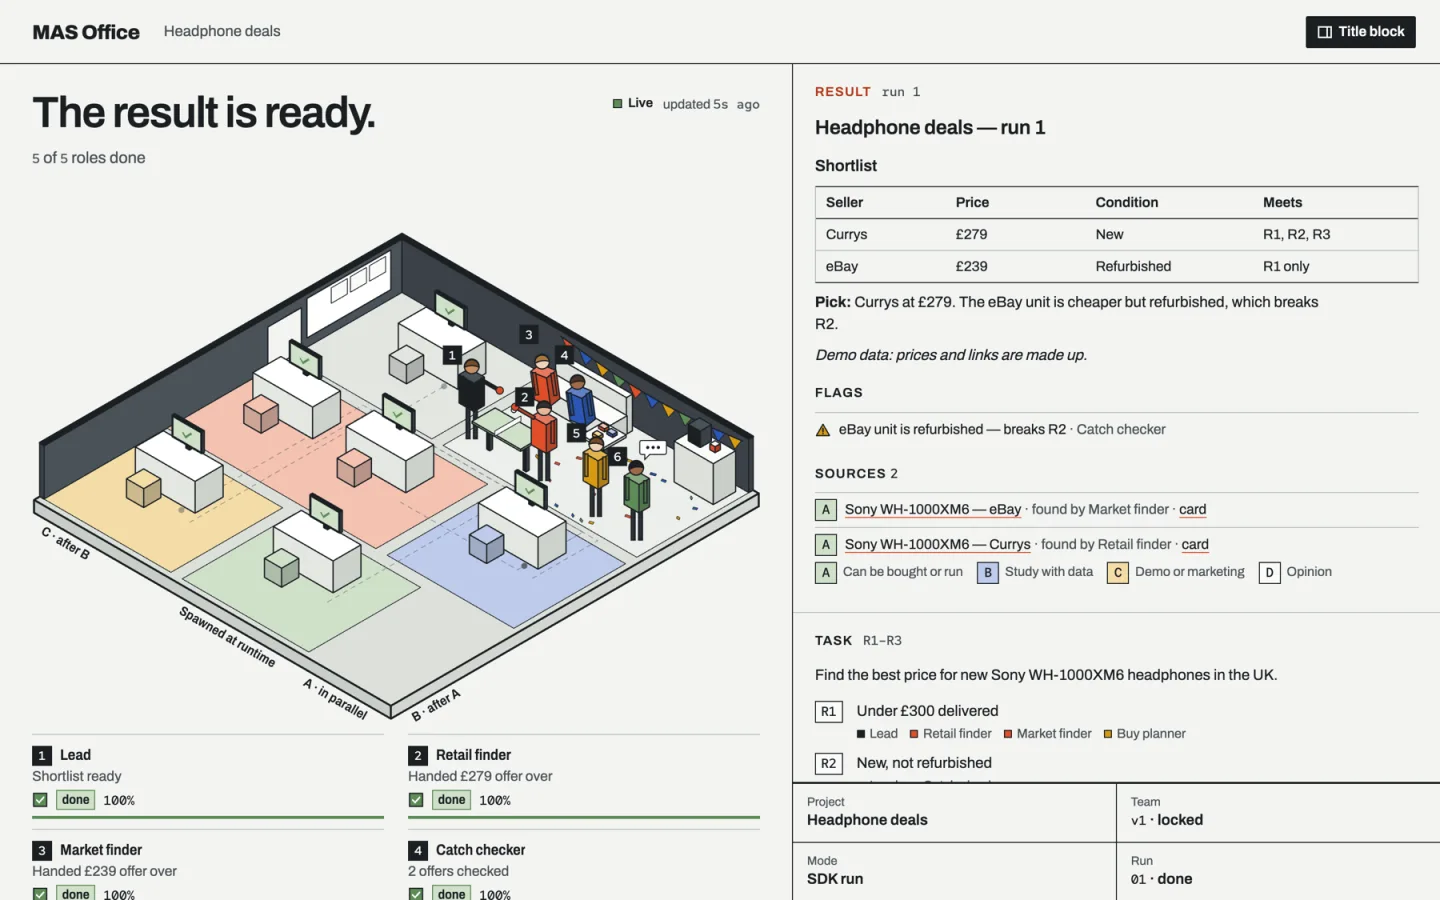
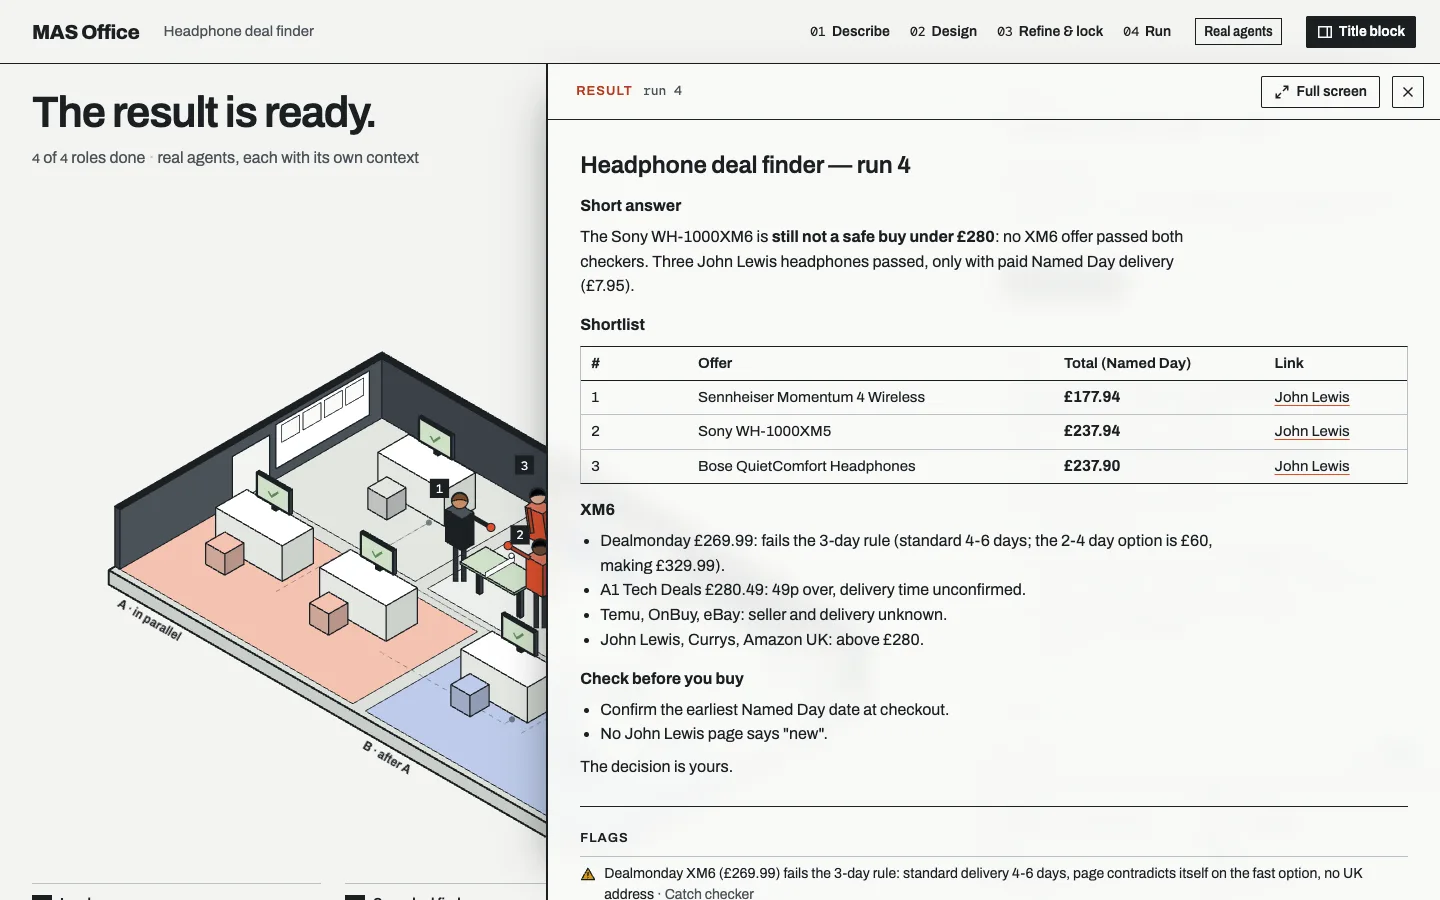
Fix the result drawer on live runs; refresh README and site; v0.2.2
The drawer did not slide out when a run finished live. The Lead and the
SDK write the result just before marking the run done, and v0.2.0 took
that in-progress result for an old one. Only a result already present
at the first look now counts as old. The drawer slides out 2.5 s after
the run finishes so the wrap-up shows first, and a single-round result
no longer shows a round label.

README (both languages) and the website describe the result drawer,
follow-up rounds and the new roadmap, with a new demo GIF and result
screenshot. The development log records the fix.

diff --git a/site/index.html b/site/index.html
@@ -172,7 +172,7 @@ html[data-radius="sharp"] { --r-sm: 2px; --r-md: 0px; --r-lg: 0px; --r-btn: 2px;
   /* no-code: the panel's result view, cut by the frame's right and bottom edges */
   #nocode .frame { --ratio: 80%; background: var(--p-bg); }
   #nocode .shot { position: absolute; inset: 0; width: 100%; height: 100%; object-fit: contain; object-position: center; }
-  #nocode pre { margin: 0; padding: var(--s-3) var(--s-4); background: var(--p-surface); border: 1px solid var(--line); font: 400 15px/1.5 var(--font-mono); white-space: pre-wrap; }
+  #nocode pre { margin-bottom: 0; padding: var(--s-3) var(--s-4); background: var(--p-surface); border: 1px solid var(--line); font: 400 15px/1.5 var(--font-mono); white-space: pre-wrap; }
   @media (max-width: 639px) {
     #protocol { --hm: 2; }
     #how, #code, #integrations, #contribute { --hm: 2; }
@@ -273,7 +273,7 @@ html[data-radius="sharp"] { --r-sm: 2px; --r-md: 0px; --r-lg: 0px; --r-btn: 2px;
       <div class="grid head">
         <h2 class="span-5" id="examples-h">Three example runs, live in the panel</h2>
         <div class="span-6 start-7">
-          <p class="t-lead">Each example is a real workspace folder. Click a desk or a role to follow its thread; the result sits beside the drawing with its sources.</p>
+          <p class="t-lead">Each example is a real workspace folder. Click a desk or a role to follow its thread; open the result to read it in a drawer over the drawing, with its sources.</p>
           <div class="tabs" role="tablist" aria-label="Example runs">
             <button class="tab" role="tab" type="button" id="tab-headphones" aria-controls="ex-headphones" aria-selected="true">Compare headphone deals</button>
             <button class="tab" role="tab" type="button" id="tab-lisbon" aria-controls="ex-lisbon" aria-selected="false">Plan a Lisbon weekend</button>
@@ -418,7 +418,7 @@ html[data-radius="sharp"] { --r-sm: 2px; --r-md: 0px; --r-lg: 0px; --r-btn: 2px;
 <span class="ui-code__ln" data-n="7">    finder.<span class="f">source</span>(id="currys", title="Sony XM6 — Currys", url="https://www.currys.co.uk/", evidence="A")</span>
 <span class="ui-code__ln" data-n="8" data-note="The handoff path runs from the finder's desk to the lead.">    finder.<span class="f">handoff</span>("lead")</span>
 <span class="ui-code__ln" data-n="9">    finder.<span class="f">done</span>()</span>
-<span class="ui-code__ln" data-n="10" data-note="The result opens beside the office, its source linked.">    run.<span class="f">result</span>(markdown="## Shortlist\n- Currys — £279")</span>
+<span class="ui-code__ln" data-n="10" data-note="The result slides out over the office, its source linked.">    run.<span class="f">result</span>(markdown="## Shortlist\n- Currys — £279")</span>
 <span class="ui-code__ln" data-n="11">    run.<span class="f">finish</span>()</span></code></pre>
               <div class="ui-code__hint" data-code-hint><span class="ui-dot"></span><span data-code-text>The finder's desk reads “Searching Currys” at 30%.</span></div>
             </div>
@@ -433,7 +433,7 @@ html[data-radius="sharp"] { --r-sm: 2px; --r-md: 0px; --r-lg: 0px; --r-btn: 2px;
 <span class="ui-code__ln" data-n="5"><span class="k">const</span> finder = run.<span class="f">agent</span>('finder', { name: 'Retail finder', emoji: '🔎' });</span>
 <span class="ui-code__ln is-mark" data-n="6">finder.<span class="f">working</span>('Searching Currys', { progress: <span class="n">30</span> });</span>
 <span class="ui-code__ln" data-n="7">finder.<span class="f">done</span>();</span>
-<span class="ui-code__ln" data-n="8" data-note="The result opens beside the office.">run.<span class="f">result</span>({ markdown: '## Shortlist\n- Currys — £279' });</span>
+<span class="ui-code__ln" data-n="8" data-note="The result slides out over the office.">run.<span class="f">result</span>({ markdown: '## Shortlist\n- Currys — £279' });</span>
 <span class="ui-code__ln" data-n="9">run.<span class="f">finish</span>();</span>
 <span class="ui-code__ln" data-n="10"><span class="k">await</span> office.<span class="f">close</span>();</span></code></pre>
               <div class="ui-code__hint" data-code-hint><span class="ui-dot"></span><span data-code-text>The finder's desk reads “Searching Currys” at 30%.</span></div>
@@ -450,11 +450,12 @@ html[data-radius="sharp"] { --r-sm: 2px; --r-md: 0px; --r-lg: 0px; --r-btn: 2px;
         <div class="span-5 stack-5">
           <h2 id="nocode-h">No-code mode for AI coding assistants</h2>
           <p class="t-lead">Give <code>AGENTS.md</code> to Claude Code, Codex, Gemini CLI or Antigravity. The assistant designs a team with you, locks it, and runs each role as its own subagent while the office shows every step.</p>
+          <p>Ask follow-up questions about the result: the Lead sends only the roles a question needs back to work, and the answer joins the result as a new round. In Claude Code the team also shows in the status line, and roles get a sandboxed browser for pages that block simple fetches.</p>
           <pre>npx mas-office init --kit my-team</pre>
           <a class="link" href="https://github.com/weixijia/awesome-mas">See awesome-mas, the classroom edition</a>
         </div>
         <div class="frame frame--split span-6 start-7">
-          <img class="shot" src="assets/img/result.webp" alt="The office panel after a run: the team at the party table and the result beside it, a shortlist table with its flags and sources" width="1440" height="900" loading="lazy" decoding="async" data-source="client" data-subject="the MAS Office panel with a result">
+          <img class="shot" src="assets/img/result.webp" alt="The office panel after a run: the result drawer open over the office, with a short answer and a shortlist table" width="1440" height="900" loading="lazy" decoding="async" data-source="client" data-subject="the MAS Office panel with a result">
         </div>
       </div>
     </div>
@@ -507,7 +508,8 @@ html[data-radius="sharp"] { --r-sm: 2px; --r-md: 0px; --r-lg: 0px; --r-btn: 2px;
           <div class="faq__item"><h3>Is MAS Office a tracing platform?</h3><p>No. It is the view you put on the big screen. Use it beside your tracer: every event can carry trace ids.</p></div>
           <div class="faq__item"><h3>Do I need an account, a server or a database?</h3><p>No. A project is a folder of files, and the panel is plain HTML that even opens from file://.</p></div>
           <div class="faq__item"><h3>Are the framework integrations stable?</h3><p>Not yet. The four integrations are experimental; the AGENTS.md kit for coding assistants is stable.</p></div>
-          <div class="faq__item"><h3>Is the Python package on PyPI?</h3><p>Not yet. Install it from GitHub with pip for now; the first tagged release to npm and PyPI is on the roadmap.</p></div>
+          <div class="faq__item"><h3>Is the Python package on PyPI?</h3><p>Not yet. The npm package is released; install the Python SDK from GitHub with pip for now. A PyPI release is on the roadmap.</p></div>
+          <div class="faq__item"><h3>What comes next?</h3><p>Driving the team, not only showing it: each role runs in an official coding agent you are already signed in to, and MAS Office plans, schedules and checks the team. See the <a href="https://github.com/weixijia/mas-office/blob/main/ROADMAP.md">roadmap</a>.</p></div>
           <div class="faq__item"><h3>Can I replay a run?</h3><p>Yes. Each project keeps an append-only events.jsonl, and <code>mas-office reduce</code> rebuilds every snapshot from it.</p></div>
         </div>
       </div>

diff --git a/panel/app.js b/panel/app.js
@@ -39,17 +39,19 @@
   // The icon for a status that carries a flag (a found problem, a question for you, a failure), else ''.
   const flagIcon = (st) => { const f = M.flagInfo(st); return f ? ICON[f.icon] : ''; };
   const narrow = () => window.innerWidth <= 1100;
+  const DRAWER_DELAY = 2500; // ms between a result arriving and the drawer sliding out
   const S = {
     demo: params.get('demo') === '1', data: {}, statuses: M.dict(), history: M.dict(), feed: [], timing: M.dict(), run: { start: 0, end: 0 },
     sigs: {}, lastChange: 0, loadedOnce: false, warnings: {}, selected: null, phase: undefined,
-    sidebar: params.get('sidebar') ? params.get('sidebar') === 'open' : !narrow(), userSidebar: !!params.get('sidebar'), autoRun: undefined, drawer: false, drawerFull: false,
+    sidebar: params.get('sidebar') ? params.get('sidebar') === 'open' : !narrow(), userSidebar: !!params.get('sidebar'), autoRun: undefined, seenKeys: new Set(), drawer: false, drawerFull: false,
     home: null, current: undefined, index: false
   };
   // A different MAS is now followed: everything per project starts over, as if the page had just opened.
   function resetProject() {
     Object.assign(S, { data: {}, statuses: M.dict(), history: M.dict(), feed: [], timing: M.dict(), run: { start: 0, end: 0 }, sigs: {}, selected: null,
-      phase: undefined, warnings: {}, loadedOnce: false, autoRun: undefined });
+      phase: undefined, warnings: {}, loadedOnce: false, autoRun: undefined, seenKeys: new Set() });
     document.body.classList.remove('isolate');
+    clearTimeout(S.drawerTimer);
     setDrawer(false);
     office.reset();
   }
@@ -434,8 +436,8 @@
   function roundLabel(x) { return x.round === 1 && !x.question ? 'Result' : 'Follow-up'; }
   function drawerHtml(ri) {
     const r = ri.r, s = struct(), many = ri.rounds.length > 1;
-    const art = (x) => '<article class="dr-round" id="dr-round-' + x.round + '" data-round="' + x.round + '">' +
-      '<p class="dr-k">' + num('Round ' + String(x.round).padStart(2, '0')) + '<span>' + roundLabel(x) + '</span>' + (x.latest && many ? '<span class="dr-latest">Latest</span>' : '') + '</p>' +
+    const art = (x) => '<article class="dr-round" id="dr-round-' + x.round + '" data-round="' + x.round + '">' + (!many ? '' :
+      '<p class="dr-k">' + num('Round ' + String(x.round).padStart(2, '0')) + '<span>' + roundLabel(x) + '</span>' + (x.latest ? '<span class="dr-latest">Latest</span>' : '') + '</p>') +
       (x.question ? '<p class="dr-q"><span class="quiet">You asked</span>' + esc(x.question) + '</p>' : '') +
       (x.title && (x.latest || x.title !== r.title) ? '<p class="res-title">' + esc(x.title) + '</p>' : '') +
       '<div class="md">' + md(x.markdown) + '</div></article>';
@@ -552,21 +554,33 @@
     renderOffice();
     if (S.index) { renderSidebar(); return; }
     const ri = resultInfo();
+    // A result file already there at the first look, before its run is done, is an old one: never pop it up later.
+    // (A new result is written a moment before its run is marked done, so "present but not ready" alone proves nothing.)
+    if (S.autoRun === undefined && S.loadedOnce && !ri && data().result) S.seenKeys.add(resultKeys(data().result).key);
     if (ri && ri.key !== S.autoRun) { // a new result or follow-up round: once per key
       // it arrived while the page was open: the drawer slides out over the office (the drawing keeps its size);
       // a result that was already there on opening only gets its card in the title block
       // the replayed demo (?demo=1, e.g. the website) keeps its wrap party in view: card only
-      const due = !S.demo && M.drawerDue(S.autoRun, ri.key);
-      S.autoRun = ri.key;
+      const due = !S.demo && M.drawerDue(S.autoRun, ri.key) && !S.seenKeys.has(ri.key);
+      S.autoRun = ri.key; S.seenKeys.add(ri.key);
       if (due) {
-        if (S.selected) select(null);
-        if (S.drawer) showLatestRound(); else setDrawer(true); // already open: jump to the new round
+        if (S.drawer) showLatestRound(); // already open: jump to the new round
+        else { // let the team's wrap-up show for a moment, then slide out (unless something changed meanwhile)
+          const key = ri.key;
+          clearTimeout(S.drawerTimer);
+          S.drawerTimer = setTimeout(() => {
+            const now = resultInfo();
+            if (!now || now.key !== key || S.index || S.drawer) return;
+            if (S.selected) select(null);
+            setDrawer(true);
+          }, DRAWER_DELAY);
+        }
       } else if (!S.sidebar) $('#sb-toggle').classList.add('news');
       const c = $('#cells'); if (c && !S.selected) c.scrollTop = 0;
     }
-    // looked and saw no ready result: the next one that arrives is new. A stale result file from the previous
-    // run or round keeps its key, so it never pops up again as if it were new (e.g. a run that fails without one).
-    if (!ri && S.loadedOnce) S.autoRun = data().result ? resultKeys(data().result).key : null;
+    // Looked and saw no ready result: the next one that arrives is new, unless its key was seen before
+    // (a run that fails without writing a new result leaves the previous one in place).
+    if (!ri && S.loadedOnce) S.autoRun = null;
     renderSidebar();
   }
 

diff --git a/packages/python/src/mas_office/__init__.py b/packages/python/src/mas_office/__init__.py
@@ -7,7 +7,7 @@ from .files import write_snapshots
 from .office import Agent, Office, Project, Run, ToolCall, slugify
 from .reducer import SPEC_VERSION, STATES, Reducer, reduce, validate_event
 
-__version__ = "0.2.1"
+__version__ = "0.2.2"
 
 __all__ = [
     "Agent",

diff --git a/README.md b/README.md
@@ -27,7 +27,7 @@ OpenAI Agents SDK · LangGraph · Claude Agent SDK · Claude Code · your own Py
 
 Multi-agent systems are hard to *see*. Logs scroll past, traces nest ten levels deep, and nobody outside the engineering team can tell which agent is stuck, who handed what to whom, or what the checker just caught.
 
-**MAS Office gives every agent a desk.** When an agent works, uses a tool, hands over, raises a flag or fails, the drawing changes in real time. When the run is done, the result opens beside it — with every claim linked to its source. Your framework still runs the agents; MAS Office is the window into the room.
+**MAS Office gives every agent a desk.** When an agent works, uses a tool, hands over, raises a flag or fails, the drawing changes in real time. When the run is done, the team celebrates and the result slides out over the office, every claim linked to its source. Your framework still runs the agents; MAS Office is the window into the room.
 
 ```bash
 npx mas-office demo        # 30 seconds, no API key, nothing to set up
@@ -42,7 +42,7 @@ npx mas-office demo        # 30 seconds, no API key, nothing to set up
 | 🪶 **Zero dependencies** | The npm and Python packages use only the standard library. No account, no database, no cloud. The panel is plain HTML and even opens from `file://`. |
 | 📜 **An open, versioned protocol** | 18 event types mapped to [AG-UI](https://docs.ag-ui.com), [OpenTelemetry GenAI](https://opentelemetry.io/docs/specs/semconv/gen-ai/) and [A2A](https://a2a-protocol.org). A deterministic reducer, JSON Schemas, and conformance cases that both reference SDKs must pass. |
 | ⏪ **Runs you can replay** | Each project is an append-only `events.jsonl`. Replay it, diff it, commit it, attach it to a bug report. |
-| 🤖 **No-code mode** | Give `AGENTS.md` to Claude Code, Codex, Gemini CLI or Antigravity: the assistant designs a team with you and runs each role as a real subagent while the office shows it. |
+| 🤖 **No-code mode** | Give `AGENTS.md` to Claude Code, Codex, Gemini CLI or Antigravity: the assistant designs a team with you and runs each role as a real subagent while the office shows it. Ask follow-up questions and the Lead sends only the roles it needs back to work. |
 
 ## 🚀 Quick start
 
@@ -178,7 +178,7 @@ That's the whole contract: [`spec/README.md`](spec/README.md). Validate with `np
 npx mas-office init --kit my-team
 ```
 
-Open `my-team` in Claude Code, Codex, Gemini CLI or Antigravity and say *"Read SETUP.md and follow it."* The assistant interviews you about the task, proposes a team (who does what, what runs in parallel, who checks whom), lets you reshape it in plain words, locks it, and runs each role as a separate subagent with its own context — while the office shows every step. This is the engine behind the classroom edition, [**awesome-mas**](https://github.com/weixijia/awesome-mas).
+Open `my-team` in Claude Code, Codex, Gemini CLI or Antigravity and say *"Read SETUP.md and follow it."* The assistant interviews you about the task, proposes a team (who does what, what runs in parallel, who checks whom), lets you reshape it in plain words, locks it, and runs each role as a separate subagent with its own context — while the office shows every step. Then ask follow-up questions about the result: the Lead decides which roles a question needs, sends only those back to work (fresh agents that build on their earlier work), and adds the answer as a new round. This is the engine behind the classroom edition, [**awesome-mas**](https://github.com/weixijia/awesome-mas).
 
 In Claude Code, choose **"Yes, I trust this folder"** when you first open it: only a trusted folder applies the kit's settings. They give you:
 - **The team in your terminal**: the status line shows who is working, who is done and what was flagged, with a link to the office.
@@ -234,10 +234,14 @@ MAS Office is not a tracing platform — it's the view you put on the big screen
 
 ## 🗺 Roadmap
 
+Next, MAS Office learns to **drive** the team, not only show it: a research team you design, can watch, and that checks its own work, running on the AI subscriptions you already have. Each role runs in an official coding agent you are already signed in to (`claude -p`, `codex exec`, …); MAS Office does the team part.
+
 - [x] Protocol 0.1, JS + Python SDKs, CLI with live server, panel, 4 integrations, no-code kit
-- [ ] CrewAI, AG-UI and OpenTelemetry ingest — one adapter each for whole ecosystems
-- [ ] Graph layout for `graph` topologies, observed vs declared handoff edges
-- [ ] Replay scrubber, per-agent token and cost, `export --otlp`
+- [x] 0.2: result drawer, follow-up rounds, a real browser for roles, the team in Claude Code's status line
+- [ ] M0: an evaluation of one agent vs a MAS team on research tasks; role backends for `claude -p` and `codex exec`; chat and office in one terminal screen
+- [ ] M1: `mas run` — the team runs itself, with per-role tools and permissions, checker rework and resume
+- [ ] M2–M4: any coding agent as the Lead (MCP), one-window terminal and desktop apps
+- [ ] Any time: CrewAI, AG-UI and OpenTelemetry ingest; replay scrubber; PyPI release
 
 Full list: [ROADMAP.md](ROADMAP.md). Have an idea? [Start a discussion](https://github.com/weixijia/mas-office/discussions).
 
@@ -273,7 +277,7 @@ If you use MAS Office in research or teaching, please cite it:
   title   = {{MAS Office}: an open protocol and live office view for multi-agent systems},
   year    = {2026},
   url     = {https://github.com/weixijia/mas-office},
-  version = {0.1.0}
+  version = {0.2.2}
 }
 ```
 

diff --git a/development_log.md b/development_log.md
@@ -45,6 +45,8 @@ site/            项目网站（GitHub Pages）
 | 2026-11-06 | `9dca283` | **v0.1.1** | 修复办公室随状态忽大忽小 |
 | 2026-11-07 | `57350ac` | **v0.2.0** | 结果抽屉 + kit 追问（follow-up rounds） |
 | 2026-11-07 | `ae92c25` | **v0.2.1** | kit：角色浏览器、终端状态行、安全加固 |
+| 2026-11-07 | `2696fbf` | | 开发日志、路线图重写 |
+| 2026-11-07 | （本次） | **v0.2.2** | 修复结果抽屉不弹出；README / 网站 / 演示 GIF 更新 |
 
 npm 发布：0.1.0、0.1.1、0.2.0、0.2.1 都已公开，账号 `simonwxj`。PyPI 尚未发布。
 
@@ -166,6 +168,23 @@ npm 发布：0.1.0、0.1.1、0.2.0、0.2.1 都已公开，账号 `simonwxj`。Py
 - **未亲眼验证**：团队运行中状态行的实时刷新（只在 Claude Code 里看到了初始状态行；运行中的内容用 `masoffice_test` 的真实数据做了单元测试）。
 
 ---
+
+## 5b. v0.2.2 — 抽屉不弹出的回归 + README / 网站更新
+
+**发现经过**：为 README 重新录制演示 GIF 时，发现 `npx mas-office demo` 跑完后结果抽屉没有自动滑出。
+
+**根因**：v0.2.0 按 review 意见加了"旧结果不重复弹出"的规则：页面看到结果文件存在、但运行还没结束时，把这个结果记为"已看过"。可是 kit 的 Lead 和 SDK 都是**先写结果文件，片刻之后才标记运行结束**，于是新结果在结束前一刻就被当成了旧结果，运行结束时不再弹出。0.2.0 的浏览器测试把两个文件在同一刻写入，所以没测出来。
+
+**修复**（`panel/app.js`）：
+- 只有"页面第一次看到时就已存在、且尚未就绪"的结果才算旧结果（`S.seenKeys`），其余按 key 判断是否新。失败且没写新结果时，旧结果仍不会被当成新的弹出。
+- 结果就绪约 2.5 秒后才滑出（`DRAWER_DELAY`），让团队收工的小派对先露个脸；期间用户手动操作、切换项目或结果变化都会取消。
+- 只有一轮结果时不再显示 "ROUND 01" 标签。
+- 浏览器检查脚本改为按真实顺序写入：先写结果、3 秒后再标记完成，并验证完成前不弹出、完成后弹出、旧结果不弹出、窄屏焦点、demo 不自动弹出。
+
+**文档与网站**：
+- README 中英文：介绍里结果改为"滑出、浮在办公室上方"；无代码模式加上追问；路线图一节改为新方向（M0–M4）；中文 README 新增路线图一节；引用版本号更新。
+- 演示 GIF 重新录制（1440×900 采集、缩放到 960×600、7fps、约 23 秒）：团队工作 → 小派对 → 结果抽屉滑出。
+- 网站：示例说明、代码注释、no-code 一节（加入追问、状态行、浏览器）、FAQ（npm 已发布、新增"接下来做什么"）、结果截图换成抽屉打开的样子；修正 no-code 一节命令框上方没有间距的问题。1440 与 390 宽度截图检查，无横向滚动。
 
 ## 6. 发布流程与注意事项
 

diff --git a/CHANGELOG.md b/CHANGELOG.md
@@ -4,6 +4,14 @@ All notable changes to this project are documented here. The format follows [Kee
 
 ## [Unreleased]
 
+## [0.2.2] — 2026-11-07
+
+### Fixed
+- **Panel**: the result drawer did not slide out when a run finished live (both the kit Lead and the SDK write the result just before marking the run done, and that result was mistaken for an old one). It now slides out about 2.5 s after the run finishes, so the team's wrap-up shows first. A single-round result no longer shows a round label.
+
+### Changed
+- **Docs**: README (both languages) and website describe the result drawer, follow-up rounds and the new roadmap; new demo GIF and result screenshot.
+
 ## [0.2.1] — 2026-11-07
 
 ### Added
